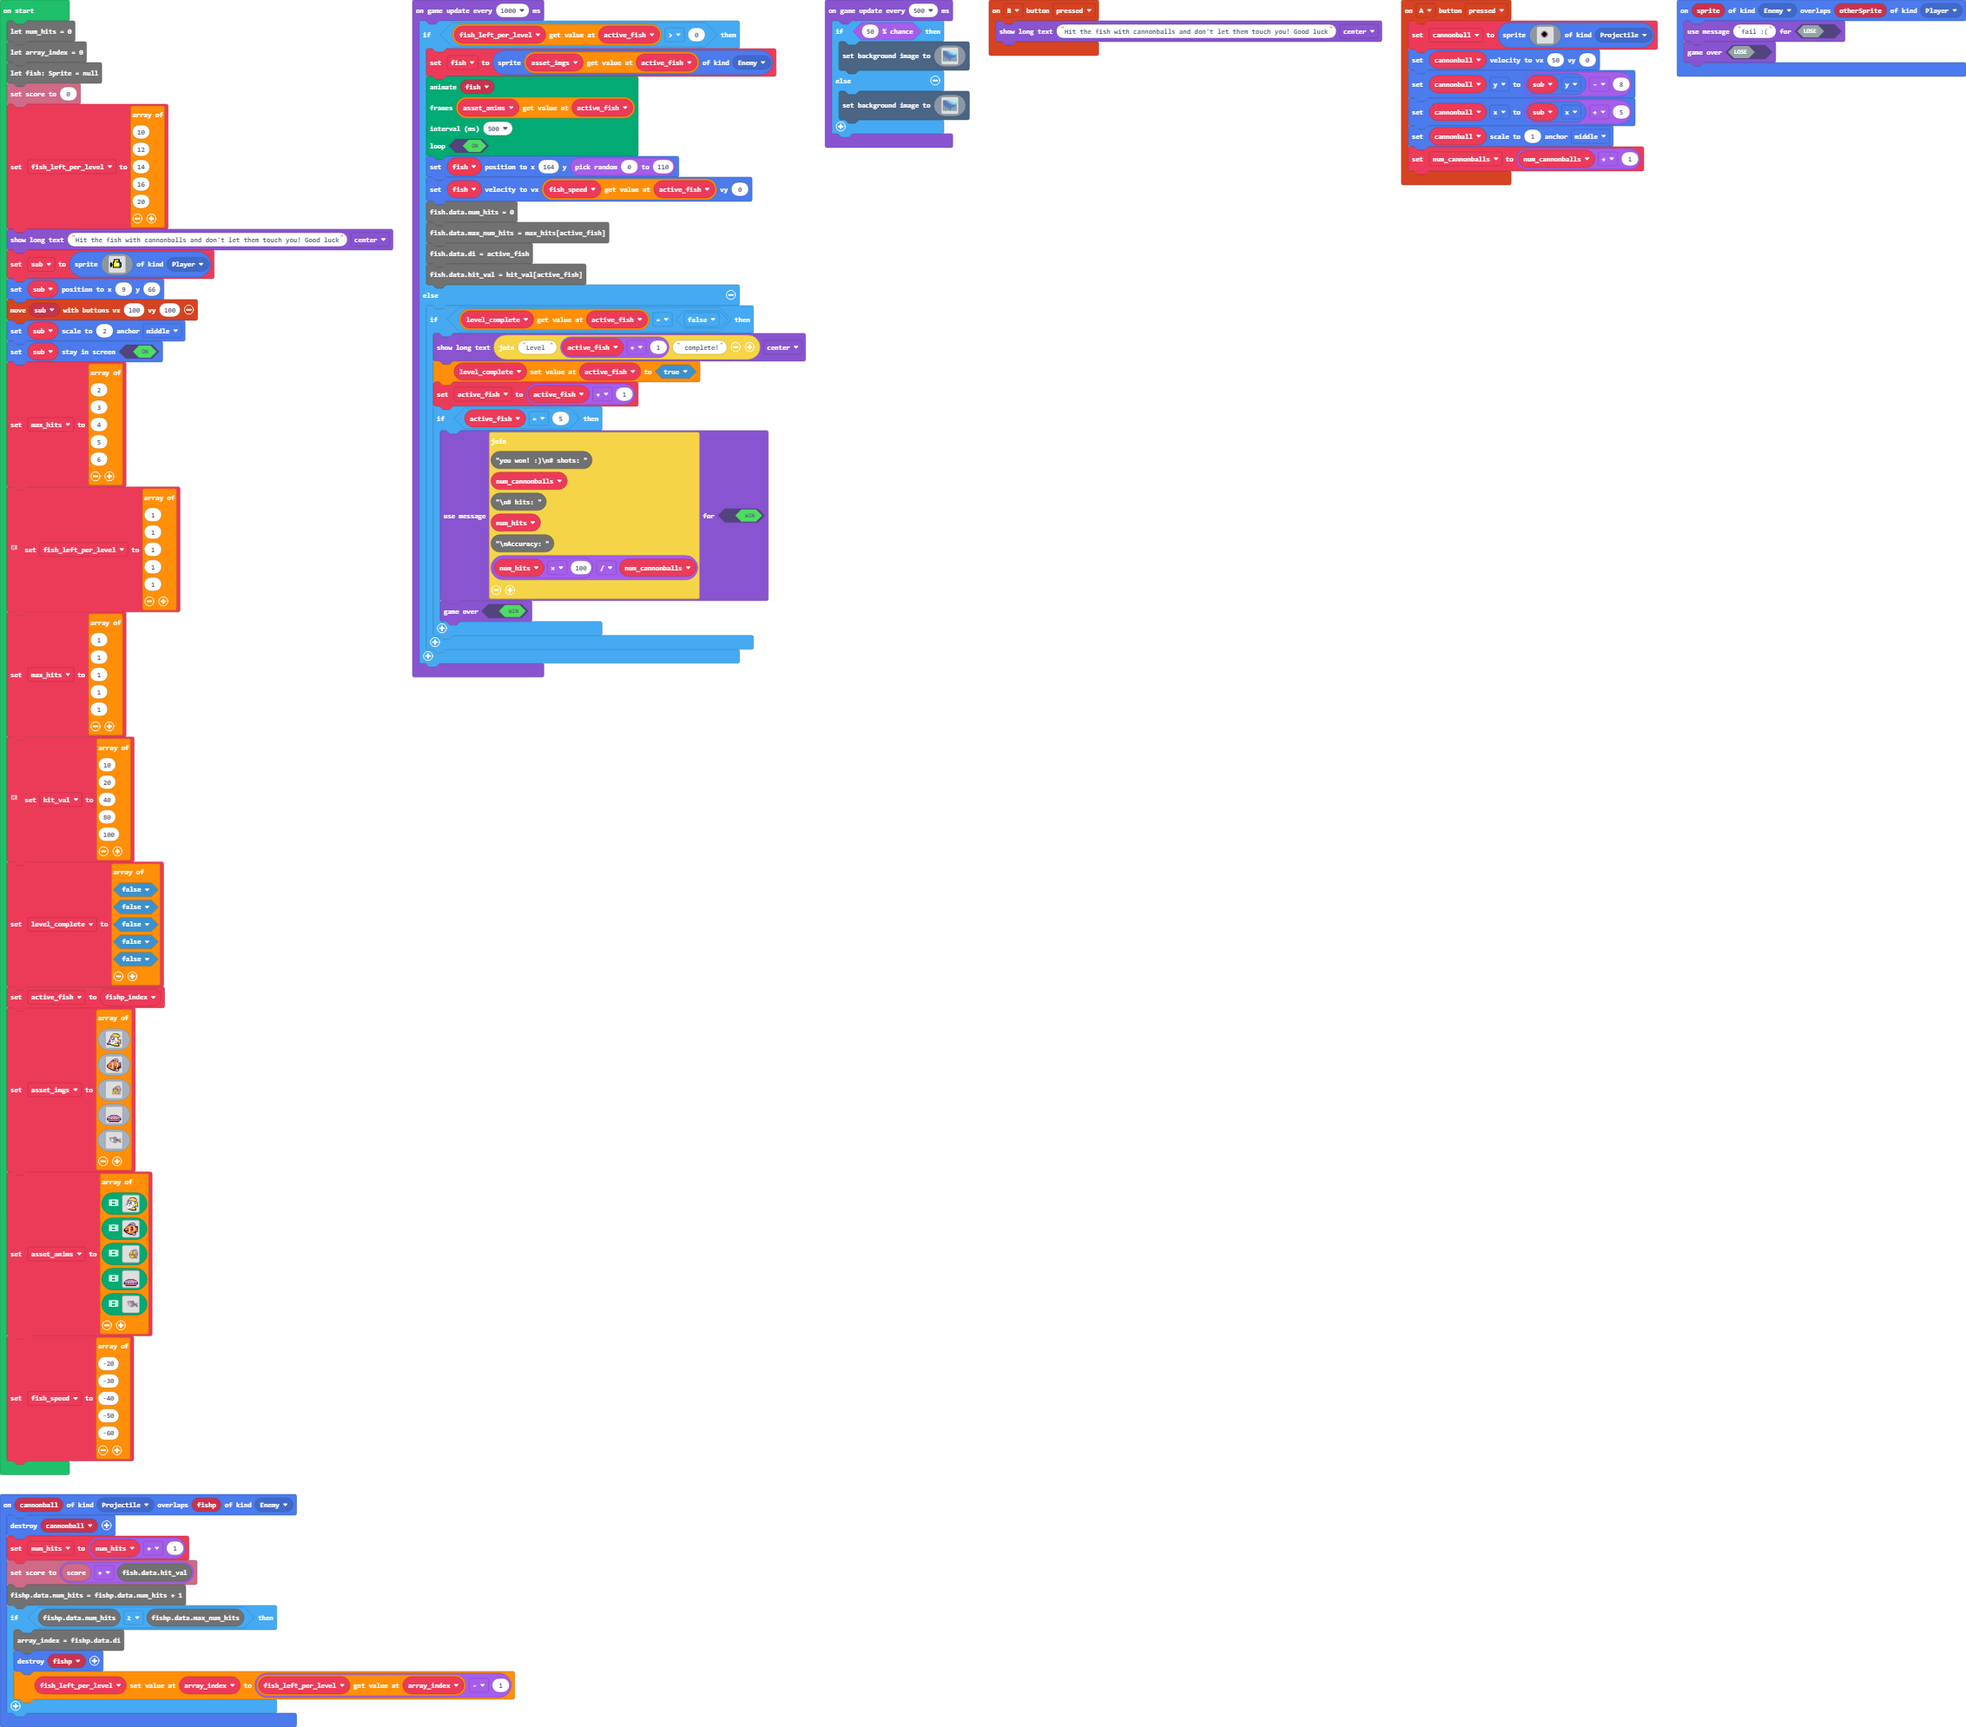
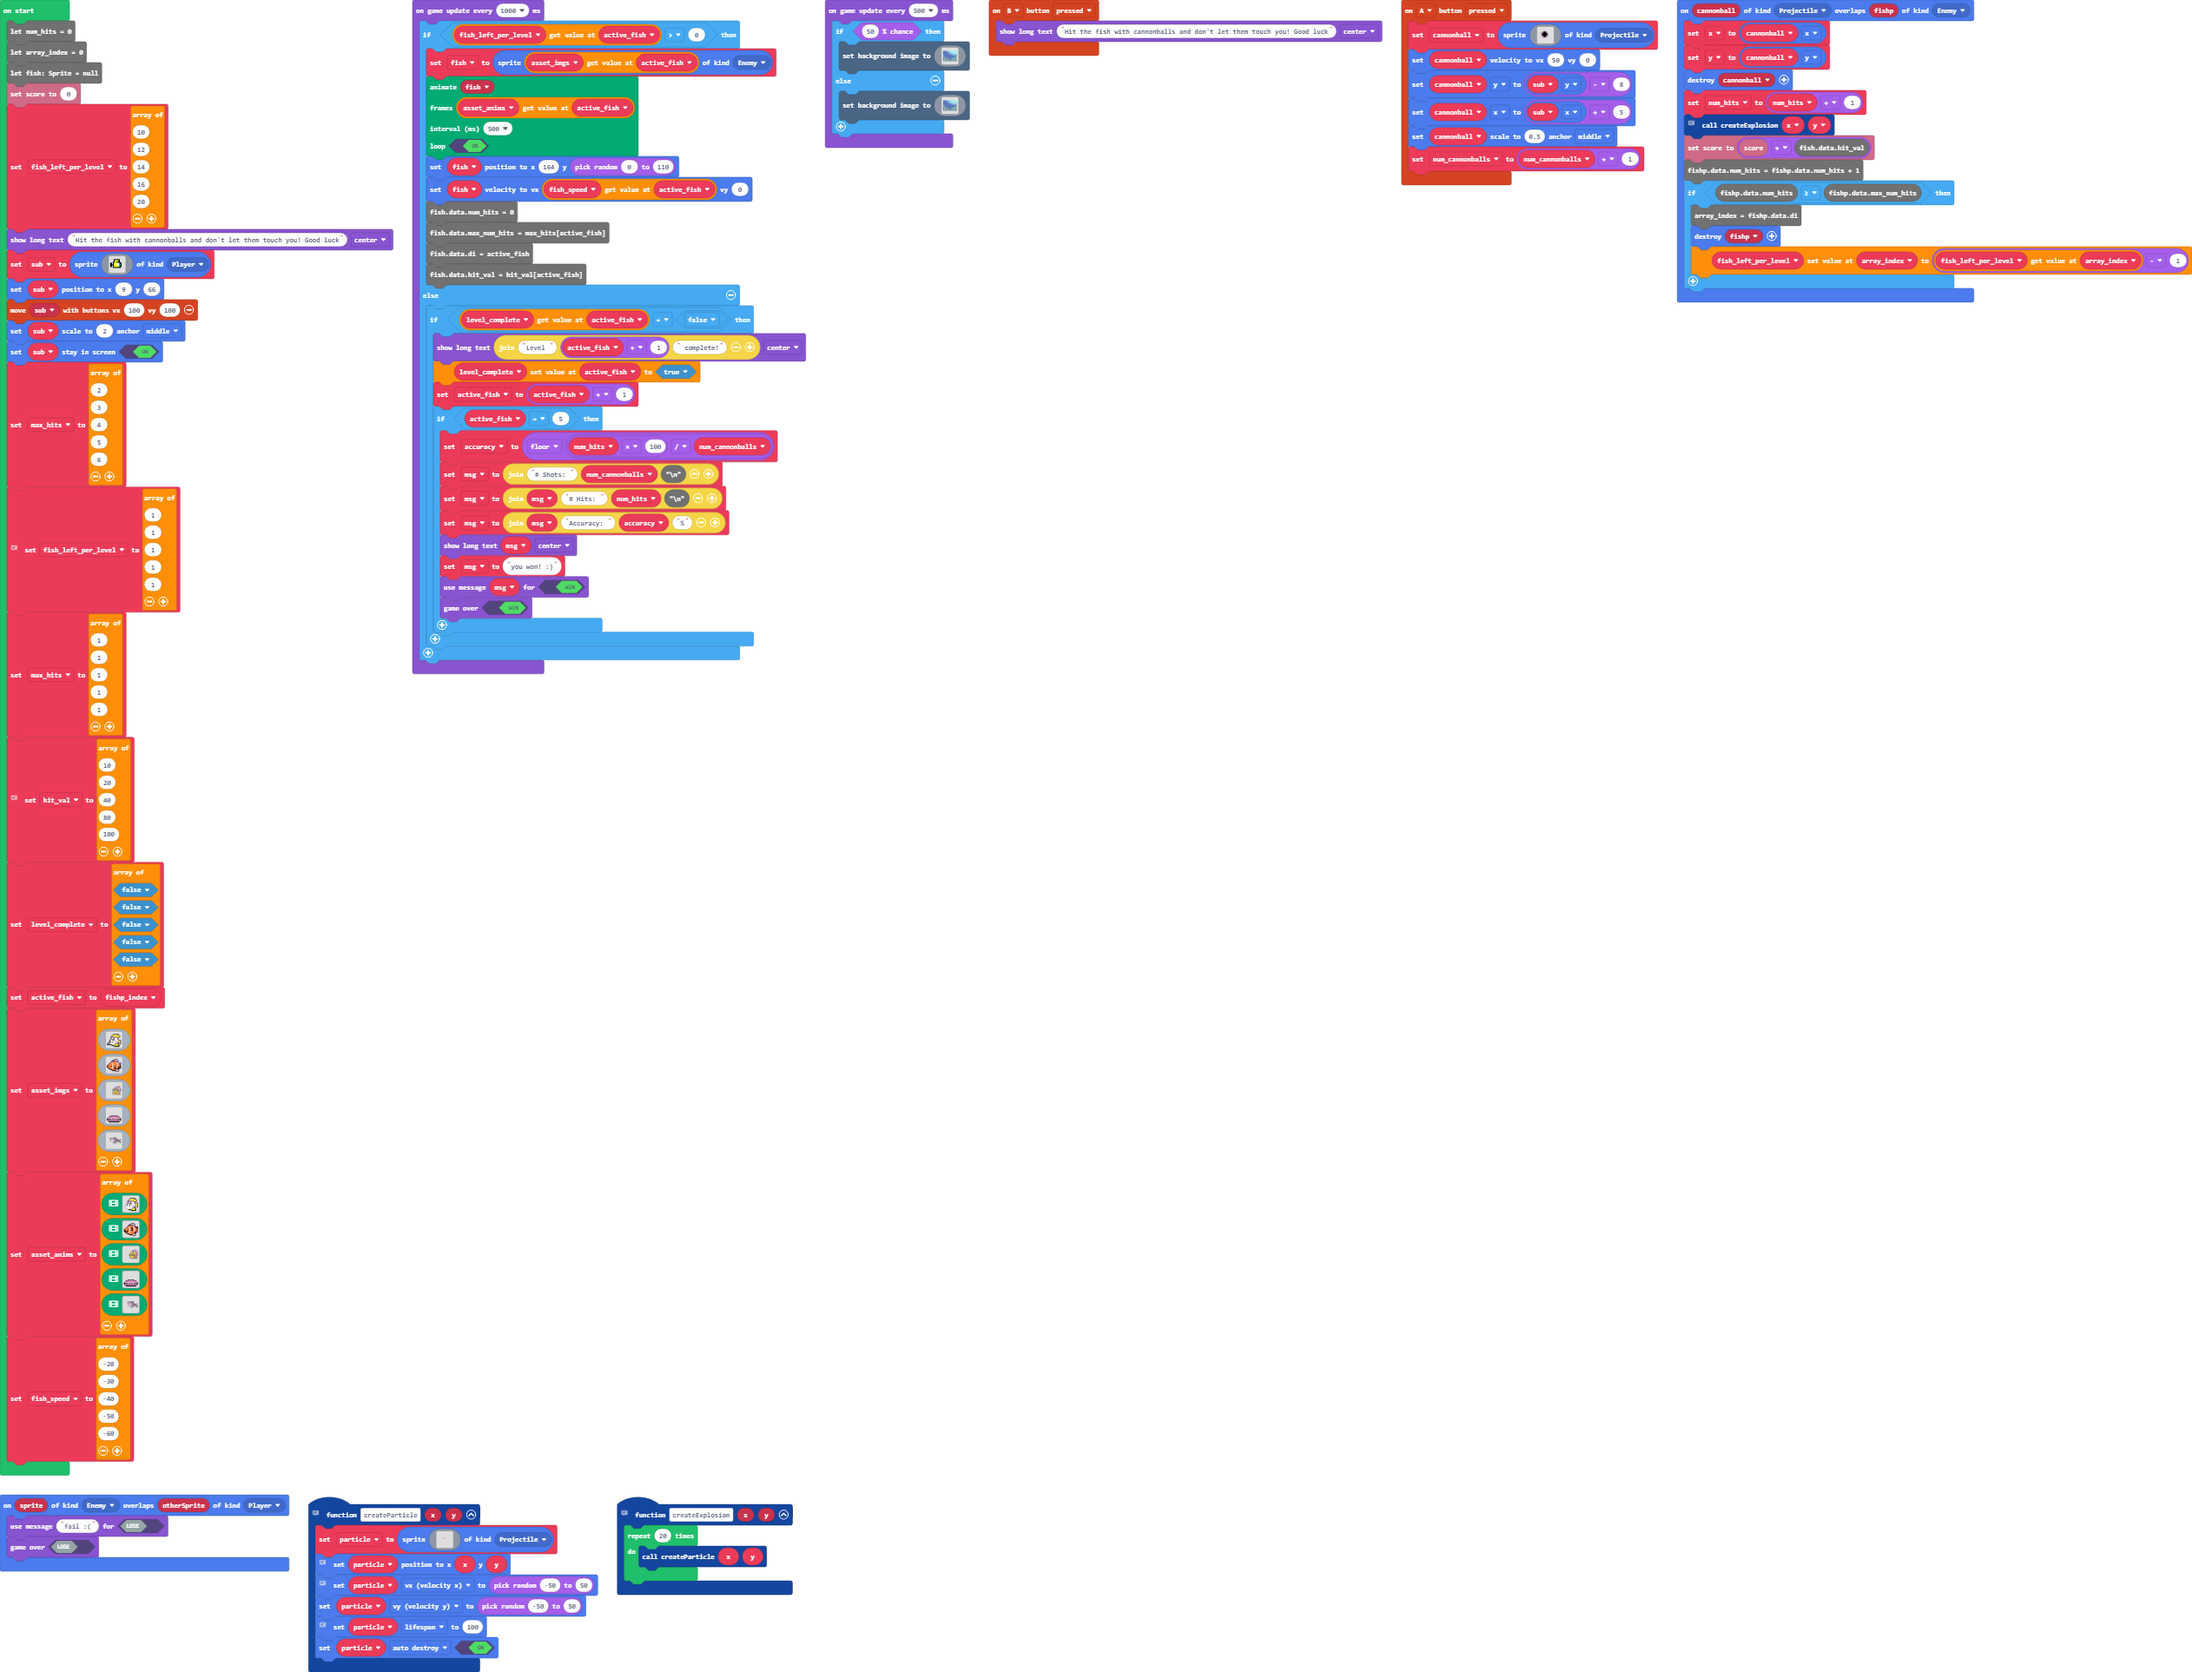
added explosion

Changed region(s): [[0.0, 0.0, 1.0, 1.0], [0.0, 0.0, 0.0618, 0.0623]]

diff --git a/main.ts b/main.ts
@@ -6,12 +6,16 @@ controller.A.onEvent(ControllerButtonEvent.Pressed, function () {
     cannonball.setVelocity(50, 0)
     cannonball.y = sub.y - 8
     cannonball.x = sub.x + 5
-    cannonball.setScale(1, ScaleAnchor.Middle)
+    cannonball.setScale(0.5, ScaleAnchor.Middle)
     num_cannonballs = num_cannonballs + 1
 })
 sprites.onOverlap(SpriteKind.Projectile, SpriteKind.Enemy, function (cannonball, fishp) {
+    x = cannonball.x
+    y = cannonball.y
     sprites.destroy(cannonball)
     num_hits = num_hits + 1
+    // Call the createExplosion function when needed
+    createExplosion(x, y)
     info.setScore(info.score() + fish.data.hit_val)
     fishp.data.num_hits = fishp.data.num_hits + 1
 if (fishp.data.num_hits >= fishp.data.max_num_hits) {
@@ -24,6 +28,30 @@ sprites.onOverlap(SpriteKind.Enemy, SpriteKind.Player, function (sprite, otherSp
     game.setGameOverMessage(false, "fail :(")
     game.gameOver(false)
 })
+// Function to create an explosion at a specific position
+function createExplosion (x: number, y: number) {
+    for (let index = 0; index < 20; index++) {
+        createParticle(x, y)
+    }
+}
+// Create a function to generate particles for the explosion
+function createParticle (x: number, y: number) {
+    particle = sprites.create(assets.image`red`, SpriteKind.Projectile)
+    // Set the initial position of the particle
+    particle.setPosition(x, y)
+    // Set random velocity for the particle
+    particle.vx = Math.randomRange(-50, 50)
+    particle.vy = Math.randomRange(-50, 50)
+    // Set a lifespan for the particle and destroy it after a short delay
+    // Adjust the lifespan as needed
+    particle.lifespan = 100
+    particle.setFlag(SpriteFlag.AutoDestroy, true)
+}
+let msg = ""
+let accuracy = 0
+let particle: Sprite = null
+let y = 0
+let x = 0
 let num_cannonballs = 0
 let cannonball: Sprite = null
 let fishp_index = 0
@@ -54,20 +82,20 @@ let max_hits = [
 6
 ]
 // for testing
-fish_left_per_level = [
-1,
-1,
-1,
-1,
-1
-]
-max_hits = [
-1,
-1,
-1,
-1,
-1
-]
+// fish_left_per_level = [
+// 1,
+// 1,
+// 1,
+// 1,
+// 1
+// ]
+// max_hits = [
+// 1,
+// 1,
+// 1,
+// 1,
+// 1
+// ]
 // end for testing
 let hit_val = [
 10,
@@ -126,12 +154,11 @@ fish.data.hit_val = hit_val[active_fish]
             level_complete[active_fish] = true
             active_fish = active_fish + 1
             if (active_fish == 5) {
-                let accuracy = Math.floor(num_hits * 100 / num_cannonballs)
-                let msg = "# Shots: " + num_cannonballs + "\n"
-                msg = msg + "# Hits: " + num_hits + "\n"
-                msg = msg + "Accuracy: " + accuracy + "%"
+                accuracy = Math.floor(num_hits * 100 / num_cannonballs)
+                msg = "# Shots: " + num_cannonballs + "\n"
+                msg = "" + msg + "# Hits: " + num_hits + "\n"
+                msg = "" + msg + "Accuracy: " + accuracy + "%"
                 game.showLongText(msg, DialogLayout.Center)
-                
                 msg = "you won! :)"
                 game.setGameOverMessage(true, msg)
                 game.gameOver(true)

diff --git a/images.g.ts b/images.g.ts
@@ -401,6 +401,25 @@ f b 3 c c c b c c b c c c 3 b f
 .................fbdbbfcc........fff
 ..................fffff.............
 `;
+            case "image9":
+            case "red":return img`
+. . . . . . . . . . . . . . . . 
+. . . . . . . . . . . . . . . . 
+. . . . . . . . . . . . . . . . 
+. . . . . . . . . . . . . . . . 
+. . . . . . . . . . . . . . . . 
+. . . . . . . . . . . . . . . . 
+. . . . . . . 2 . . . . . . . . 
+. . . . . . . . . . . . . . . . 
+. . . . . . . . . . . . . . . . 
+. . . . . . . . . . . . . . . . 
+. . . . . . . . . . . . . . . . 
+. . . . . . . . . . . . . . . . 
+. . . . . . . . . . . . . . . . 
+. . . . . . . . . . . . . . . . 
+. . . . . . . . . . . . . . . . 
+. . . . . . . . . . . . . . . . 
+`;
         }
         return null;
     })
@@ -593,7 +612,8 @@ f b 3 c b b f b b f b b c 3 b f
 
     helpers._registerFactory("song", function(name: string) {
         switch(helpers.stringTrim(name)) {
-
+            case "song1":
[1 lines of base64/hex data omitted]
         }
         return null;
     })
